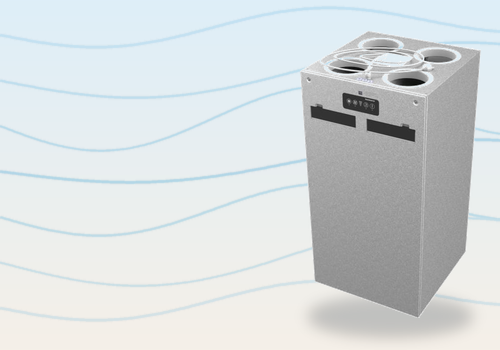
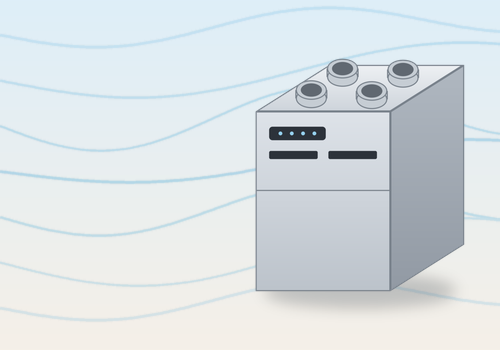
Replace product render with an original illustration
The app and driver images were built from a manufacturer product render,
which meant publishing depended on getting permission for somebody else's
asset. draw_unit.py draws the unit from primitives instead, so the images
are owned outright.

An upright cabinet with four duct spigots is the functional shape shared
across this class of unit, so the illustration resembles the real thing
without tracing it.

Two geometry fixes worth noting: the spigot centres now follow the top
parallelogram exactly rather than carrying an extra vertical offset, which
is what had them floating past the back edge, and the app image derives the
unit's x position from its scaled width instead of a fixed fraction, since
the illustration and the render have very different aspect ratios.

make_images.py still accepts "render" as a source if the photographic
version is ever cleared for use.

Changed region(s): [[0.51, 0.0857, 0.96, 0.9714]]

diff --git a/tools/draw_unit.py b/tools/draw_unit.py
@@ -1,0 +1,167 @@
+#!/usr/bin/env python3
+"""
+Draws an original illustration of a generic heat-recovery ventilation unit.
+
+Deliberately not a trace of any manufacturer's product render: an upright
+cabinet with four duct spigots and a front panel is the functional shape shared
+across this whole class of unit, which is why the app covers 19 models with one
+driver. Everything here is drawn from primitives.
+
+Rendered at 4x and downsampled, because the diagonal cabinet edges alias badly
+at final size otherwise.
+"""
+
+from PIL import Image, ImageDraw, ImageFilter
+import math
+
+SS = 4  # supersampling factor
+
+# Cool galvanised steel, lit from the upper left.
+TOP_LIGHT = (238, 241, 244)
+TOP_DARK = (206, 212, 219)
+FRONT_LIGHT = (222, 227, 233)
+FRONT_DARK = (188, 195, 203)
+SIDE_LIGHT = (176, 184, 193)
+SIDE_DARK = (146, 154, 164)
+EDGE = (120, 129, 139)
+PANEL = (44, 50, 58)
+DUCT_RIM = (198, 205, 212)
+DUCT_BORE = (96, 104, 113)
+
+
+def lerp(a, b, t):
+    return tuple(int(a[i] + (b[i] - a[i]) * t) for i in range(3))
+
+
+def shade_polygon(size, points, top_colour, bottom_colour):
+    """A polygon filled with a vertical gradient, returned as an RGBA layer."""
+    layer = Image.new('RGBA', size, (0, 0, 0, 0))
+
+    ys = [p[1] for p in points]
+    y0, y1 = int(min(ys)), int(max(ys))
+    gradient = Image.new('RGB', (1, max(1, y1 - y0)))
+    gd = ImageDraw.Draw(gradient)
+    for y in range(gradient.height):
+        gd.point((0, y), fill=lerp(top_colour, bottom_colour, y / max(1, gradient.height - 1)))
+    gradient = gradient.resize(size, Image.NEAREST) if False else gradient.resize(
+        (size[0], gradient.height), Image.NEAREST)
+
+    field = Image.new('RGB', size, bottom_colour)
+    field.paste(gradient, (0, y0))
+
+    mask = Image.new('L', size, 0)
+    ImageDraw.Draw(mask).polygon(points, fill=255)
+    layer.paste(field, (0, 0), mask)
+    return layer
+
+
+def ellipse_points(cx, cy, rx, ry, steps=72):
+    return [
+        (cx + rx * math.cos(2 * math.pi * i / steps),
+         cy + ry * math.sin(2 * math.pi * i / steps))
+        for i in range(steps)
+    ]
+
+
+def draw_unit(size):
+    """Returns an RGBA illustration of the unit, sized to a square canvas."""
+    w = h = size * SS
+    canvas = Image.new('RGBA', (w, h), (0, 0, 0, 0))
+
+    # Cabinet geometry, in a light isometric projection. These units are
+    # noticeably taller than they are wide, and the top face needs enough
+    # depth to seat four spigots without them colliding.
+    cab_w = w * 0.42
+    cab_h = h * 0.56
+    depth_x = w * 0.23
+    depth_y = h * 0.145
+
+    x0 = w * 0.17
+    y0 = h * 0.31  # top of the front face
+
+    front = [(x0, y0), (x0 + cab_w, y0), (x0 + cab_w, y0 + cab_h), (x0, y0 + cab_h)]
+    top = [(x0, y0), (x0 + depth_x, y0 - depth_y),
+           (x0 + cab_w + depth_x, y0 - depth_y), (x0 + cab_w, y0)]
+    side = [(x0 + cab_w, y0), (x0 + cab_w + depth_x, y0 - depth_y),
+            (x0 + cab_w + depth_x, y0 + cab_h - depth_y), (x0 + cab_w, y0 + cab_h)]
+
+    for polygon, light, dark in [
+        (top, TOP_LIGHT, TOP_DARK),
+        (front, FRONT_LIGHT, FRONT_DARK),
+        (side, SIDE_LIGHT, SIDE_DARK),
+    ]:
+        canvas.alpha_composite(shade_polygon((w, h), polygon, light, dark))
+
+    draw = ImageDraw.Draw(canvas)
+    stroke = max(1, int(w * 0.0035))
+    for polygon in (top, front, side):
+        draw.polygon(polygon, outline=EDGE, width=stroke)
+
+    # Four duct spigots standing on the top face. The centre of each follows
+    # the top parallelogram exactly, so they sit on the surface instead of
+    # floating over the back edge:
+    #     x = x0 + cab_w * u + depth_x * v
+    #     y = y0 - depth_y * v
+    # The ellipse is squashed by the same depth ratio as the face itself,
+    # which is what makes a circle read as lying flat on it.
+    duct_rx = cab_w * 0.115
+    duct_ry = duct_rx * (depth_y / depth_x)
+    riser = h * 0.026
+
+    # Back row first: a nearer spigot has to overlap the one behind it, never
+    # the other way round.
+    spigots = sorted(
+        ((0.24, 0.74), (0.70, 0.72), (0.26, 0.28), (0.72, 0.26)),
+        key=lambda p: -p[1],
+    )
+
+    for u, v in spigots:
+        cx = x0 + cab_w * u + depth_x * v
+        cy = y0 - depth_y * v
+
+        # Cylinder wall, then the top rim and bore drawn over it.
+        wall = [(cx - duct_rx, cy), (cx - duct_rx, cy - riser),
+                (cx + duct_rx, cy - riser), (cx + duct_rx, cy)]
+        canvas.alpha_composite(shade_polygon((w, h), wall, DUCT_RIM, TOP_DARK))
+        draw.ellipse([cx - duct_rx, cy - duct_ry, cx + duct_rx, cy + duct_ry],
+                     fill=DUCT_RIM, outline=EDGE, width=stroke)
+        draw.line([(cx - duct_rx, cy), (cx - duct_rx, cy - riser)], fill=EDGE, width=stroke)
+        draw.line([(cx + duct_rx, cy), (cx + duct_rx, cy - riser)], fill=EDGE, width=stroke)
+        draw.ellipse([cx - duct_rx, cy - riser - duct_ry, cx + duct_rx, cy - riser + duct_ry],
+                     fill=DUCT_RIM, outline=EDGE, width=stroke)
+        inner = duct_rx * 0.68
+        draw.ellipse([cx - inner, cy - riser - duct_ry * 0.68,
+                      cx + inner, cy - riser + duct_ry * 0.68],
+                     fill=DUCT_BORE)
+
+    # Control panel and the two filter access handles on the front face.
+    panel_w, panel_h = cab_w * 0.42, cab_h * 0.075
+    px = x0 + cab_w * 0.10
+    py = y0 + cab_h * 0.085
+    radius = max(2, int(panel_h * 0.25))
+    draw.rounded_rectangle([px, py, px + panel_w, py + panel_h], radius=radius, fill=PANEL)
+
+    dot_r = panel_h * 0.14
+    for i in range(4):
+        dx = px + panel_w * (0.20 + i * 0.20)
+        draw.ellipse([dx - dot_r, py + panel_h / 2 - dot_r,
+                      dx + dot_r, py + panel_h / 2 + dot_r], fill=(150, 210, 240))
+
+    handle_h = cab_h * 0.045
+    hy = y0 + cab_h * 0.22
+    for i in range(2):
+        hx = x0 + cab_w * (0.10 + i * 0.44)
+        draw.rounded_rectangle([hx, hy, hx + cab_w * 0.36, hy + handle_h],
+                               radius=max(2, int(handle_h * 0.2)), fill=PANEL)
+
+    # Seam between the two filter halves.
+    seam_y = y0 + cab_h * 0.44
+    draw.line([(x0, seam_y), (x0 + cab_w, seam_y)], fill=EDGE, width=stroke)
+
+    canvas = canvas.resize((size, size), Image.LANCZOS)
+    return canvas.filter(ImageFilter.SMOOTH)
+
+
+if __name__ == '__main__':
+    draw_unit(1000).save('/tmp/unit-preview.png')
+    print('skrev /tmp/unit-preview.png')

diff --git a/tools/make_images.py b/tools/make_images.py
@@ -1,9 +1,23 @@
 #!/usr/bin/env python3
-"""Generates Homey app and driver images from the Dantherm product render."""
+"""
+Generates the Homey app and driver images.
+
+Two sources are supported:
+
+  drawn  (default) the original illustration from draw_unit.py — owned outright,
+                   so nothing here depends on a third party's permission
+  render           a manufacturer product photo, which looks sharper but is
+                   somebody else's asset and needs clearing before publication
+
+    python3 tools/make-images.py [drawn|render]
+"""
 
 from PIL import Image, ImageDraw, ImageFilter
 import math
 import os
+import sys
+
+from draw_unit import draw_unit
 
 SRC = os.path.expanduser('~/Downloads/dantherm-hcv-460-p2-a-bp-rh.jpg')
 APP = os.path.expanduser('~/Documents/Github/Homey App Development/dk.fredskilde.dantherm')
@@ -11,8 +25,8 @@ APP = os.path.expanduser('~/Documents/Github/Homey App Development/dk.fredskilde
 WHITE = (255, 255, 255)
 
 
-def load_product():
-    """Returns the render cropped tight to the unit, plus an alpha mask."""
+def load_render():
+    """Returns the product render cropped tight to the unit, plus an alpha mask."""
     im = Image.open(SRC).convert('RGB')
 
     # The render sits on white, so anything below the threshold is product.
@@ -28,6 +42,17 @@ def load_product():
     alpha = alpha.filter(ImageFilter.GaussianBlur(0.6)).point(lambda p: min(255, int(p * 1.6)))
     product.putalpha(alpha)
     return product
+
+
+def load_drawn():
+    """Renders the illustration large and crops it to the unit."""
+    art = draw_unit(1400)
+    box = art.getbbox()
+    return art.crop(box)
+
+
+def load_product(source):
+    return load_render() if source == 'render' else load_drawn()
 
 
 def fit(img, size, margin=0.08):
@@ -93,10 +118,13 @@ def app_image(product, width, height):
     flow = flow.filter(ImageFilter.GaussianBlur(max(0.4, height * 0.0016)))
     canvas = Image.alpha_composite(canvas.convert('RGBA'), flow).convert('RGB')
 
-    # Unit on the right, sized to the canvas height.
+    # Unit on the right, sized to the canvas height. The x position is derived
+    # from the scaled width rather than fixed, because the drawn unit and the
+    # photographic render have very different aspect ratios and a hard-coded
+    # offset crops one of them off the edge.
     item = product.copy()
     item.thumbnail((int(width * 0.42), int(height * 0.82)), Image.LANCZOS)
-    x = int(width * 0.60)
+    x = width - item.width - int(width * 0.07)
     y = (height - item.height) // 2
 
     # Soft contact shadow so the unit sits in the scene.
@@ -115,8 +143,12 @@ def app_image(product, width, height):
 
 
 def main():
-    product = load_product()
-    print(f'produkt beskaaret til {product.width}x{product.height}')
+    source = sys.argv[1] if len(sys.argv) > 1 else 'drawn'
+    if source not in ('drawn', 'render'):
+        raise SystemExit('kilde skal vaere "drawn" eller "render"')
+
+    product = load_product(source)
+    print(f'kilde: {source} — beskaaret til {product.width}x{product.height}')
 
     for name, size in [('small', 75), ('large', 500), ('xlarge', 1000)]:
         path = f'{APP}/drivers/hcv/assets/images/{name}.png'
